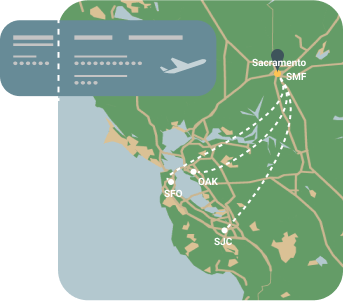
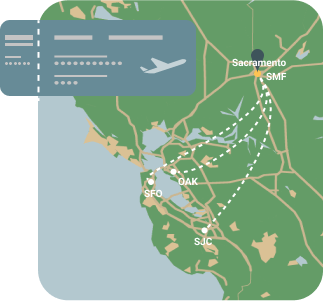
responsive fixes

diff --git a/docs/index.html b/docs/index.html
@@ -157,7 +157,7 @@
 			</div>
 		</div>
 		<div class="bg-no-repeat bg-top md:mt-12 lg:mt-12 xl:mt-12 md:h-64 lg:h-64 xl:visible invisible sm:invisible md:visible lg:visible xl:visible"
-			style="background-image: url('/img/hero.png');">
+			style="background-image: url('/img/hero.jpg');">
 		</div>
 		<div class="bg-no-repeat bg-top mt-12 sm:mt-12 md:mt-0 h-325px md:hidden lg:h-0px lg:hidden visible sm:visible md:invisible lg:invisible xl:invisible"
 			style="background-image: url('/img/hero_SM.jpg'); height: 325px;">
@@ -189,10 +189,10 @@
 			</div>
 		</div>
 	</section>
-	<section id="location" class="flex lg:h-screen mt-12 md:mt-12">
-		<div class="container px-4 flex flex-wrap mx-auto">
-			<div class="w-full lg:w-1/3">
-				<h3 class="text-3xl font-display text-ligDark pt-6 lg:mt-24 pb-4">Meet us in Sacramento.</h3>
+	<section id="location" class="flex flex-col">
+		<div class="md:flex flex-1 items-stretch container px-4 mx-auto">
+			<div class="self-center w-full sm:w-full md:w-1/2 md:pr-16">
+				<h3 class="text-3xl font-display text-ligDark pt-12 md:pt-6 pb-4">Meet us in Sacramento.</h3>
 				<p class="font-sans text-ligMid pb-6">Our Ceremony will take place at Saint Francis of Assisi Parish,
 					1066 26th
 					St, Sacramento, CA at 11:00am.
@@ -203,60 +203,49 @@
 					itinerary and
 					transport arrangements in January 2021.</p>
 			</div>
-			<div class="w-full py-12 lg:w-2/3">
-				<img src="/img/map.png" alt="" class=" m-auto" srcset="/img/map.png 1x, /img/map@2x.png 2x">
+			<div class="w-full sm:w-full md:w-1/2">
+				<img alt="" class="mx-auto object-center transform scale-90 pt-6" srcset="/img/location.jpg 1x, /img/location@2x.jpg 2x">
 			</div>
 		</div>
 	</section>
-	<section id="travel" class="flex md:h-screen">
-		<div class="container relative flex flex-wrap  content-center mx-auto">
-			<div class="w-1/1 md:w-1/2 px-4 md:px-12  mx-auto content-center">
-				<h3 class="text-4xl font-display text-ligDark md:pt-12 mt-6 pb-4">Getting here.</h3>
-				<p class="font-sans text-ligMid pb-6 mb-12">Something for people flying, something for people driving
-					and
-					something for those coming from closeby. </p>
-				<img src="/img/flight.png" srcset="/img/flight.png 1x, /img/flight@2x.png 2x" class="mb-12">
-			</div>
-			<div class="w-1/1 md:w-1/2 px-4 md:px-12">
-				<h3 class="text-4xl font-display text-ligDark md:pt-12 mt-6 pb-4">Where to stay.</h3>
-				<p class="font-sans text-ligMid pb-6 mb-12">Something about accomodation for those that are planning
+	<section id="travel" class="flex flex-col">
+		<div class="container flex flex-wrap mx-auto pt-24">
+			<div class="w-full md:w-1/2 px-4 md:px-12">
+				<img srcset="/img/sacramento.jpg 1x, /img/sacramento@2x.jpg 2x" class="mx-auto">
+				<h3 class="text-3xl font-display text-ligDark pt-12 pb-4">Where to stay.</h3>
+				<p class="font-sans text-ligMid mb-24">Something about accomodation for those that are planning
 					where to
 					stay, please let us know if you'd like to join us at either.</p>
-				<img src="/img/sacramento.png" srcset="/img/sacramento.png 1x, /img/sacramento@2x.png 2x" class="mb-12">
 			</div>
+			<div class="w-full md:w-1/2 px-4 md:px-12  mx-auto content-center">
+				<img src="/img/flight.png" srcset="/img/flight.png 1x, /img/flight@2x.png 2x" class="mx-auto">
+				<h3 class="text-3xl font-display text-ligDark pt-12 pb-4">Getting here.</h3>
+				<p class="font-sans text-ligMid mb-24">Something for people flying, something for people driving
+					and
+					something for those coming from closeby. </p>
+			</div>
+
 		</div>
 	</section>
-	<section id="explore" class="flex ">
-		<div class="container relative flex flex-wrap content-center mx-auto">
-			<div class="w-1/1 pt-12 mt-12 px-4 content-center mx-auto align-middle content-center">
-				<h3 class="text-4xl font-display text-ligDark pb-4">Explore northern California with us.</h3>
-				<p class="font-sans text-ligMid pb-6 mb-12">Something for those travelling from far to help plan what to
+
+	<section id="explore" class="flex flex-col">
+		<div class="md:flex flex-1 items-stretch container px-4 mx-auto">
+
+			<div class="w-full sm:w-full md:w-1/2">
+				<img srcset="/img/explore.jpg 1x, /img/explore@2x.jpg 2x" class="m-auto">
+			</div>
+
+			<div class="self-center w-full sm:w-full md:w-1/2 md:pl-16 ">
+				<h3 class="text-3xl font-display text-ligDark pt-12 sm:pt-12 md:pt-4 pb-4">Stay for the week.</h3>
+				<p class="font-sans text-ligMid">Something for those travelling from far to help plan what to
 					do
 					while visiting.</p>
 			</div>
-			<div class="relative px-4 container align-middle content-center text-center flex flex-wrap ">
-				<div class="w-1/1 md:w-1/3 py-12">
-					<p class="text-2xl text-ligDark font-display ">San Francisco</p>
-				</div>
-				<div class="w-1/1 md:w-1/3 py-12">
-					<p class="text-2xl text-ligDark font-display ">Napa Valley</p>
-				</div>
-				<div class="w-1/1 md:w-1/3 py-12">
-					<p class="text-2xl text-ligDark  font-display ">Sacramento</p>
-				</div>
-				<div class="w-1/1 md:w-1/3 py-12">
-					<p class="text-2xl text-ligDark font-display ">Big Sur</p>
-				</div>
-				<div class="w-1/1 md:w-1/3 py-12">
-					<p class="text-2xl text-ligDark font-display ">Yosemite</p>
-				</div>
-				<div class="w-1/1 md:w-1/3 py-12">
-					<p class="text-2xl text-ligDark  font-display ">Lake Tahoe</p>
-				</div>
-			</div>
+			
 		</div>
 	</section>
-	<div>
+
+	<div class="mt-24">
 		<p class="text-center text-ligMid my-12 pt-12">Made with <span style="color:red">&heartsuit;</span> in San
 			Francisco
 		</p>
